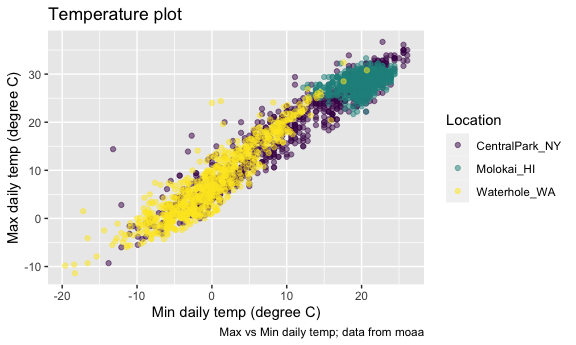
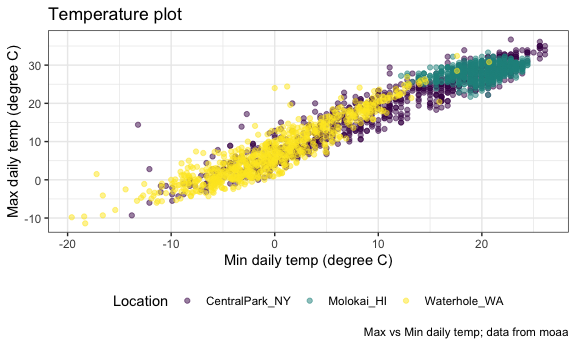
final version for oct 03

diff --git a/viz_and_eda_2.md b/viz_and_eda_2.md
@@ -20,7 +20,7 @@ library(tidyverse)
 
 ``` r
 library(ggridges)
-
+library(patchwork)
 knitr::opts_chunk$set(
   fig.width = 6,
   fig.asp = .6,
@@ -317,9 +317,177 @@ weather_df |>
     color = "Location", 
     caption = "Max vs Min daily temp; data from moaa"
   ) + 
-  viridis::scale_color_viridis(discrete = TRUE)
+  viridis::scale_color_viridis(discrete = TRUE) + 
+  theme_bw() +
+  theme(legend.position = "bottom")
 ```
 
     ## Warning: Removed 17 rows containing missing values (`geom_point()`).
 
 <img src="viz_and_eda_2_files/figure-gfm/unnamed-chunk-18-1.png" width="90%" />
+
+## data argument
+
+``` r
+weather_df |>
+  ggplot(aes(x = date, y = tmax, color = name)) +
+  geom_point() +
+  geom_smooth()
+```
+
+    ## `geom_smooth()` using method = 'loess' and formula = 'y ~ x'
+
+    ## Warning: Removed 17 rows containing non-finite values (`stat_smooth()`).
+
+    ## Warning: Removed 17 rows containing missing values (`geom_point()`).
+
+<img src="viz_and_eda_2_files/figure-gfm/unnamed-chunk-19-1.png" width="90%" />
+
+``` r
+nyc_weather_df = 
+  weather_df |>
+  filter(name =="CentralPark_NY")
+
+hawaii_weather_df = 
+  weather_df |>
+  filter(name == "Molokai_HI")
+
+ggplot(nyc_weather_df, aes(x = date, y = tmax, color = name))+
+  geom_point()+
+  geom_line(data = hawaii_weather_df)
+```
+
+<img src="viz_and_eda_2_files/figure-gfm/unnamed-chunk-19-2.png" width="90%" />
+
+## patchwork
+
+``` r
+weather_df |>
+  ggplot(aes(x = date, y = tmax, color = name)) +
+  geom_point() + 
+  facet_grid(. ~ name)
+```
+
+    ## Warning: Removed 17 rows containing missing values (`geom_point()`).
+
+<img src="viz_and_eda_2_files/figure-gfm/unnamed-chunk-20-1.png" width="90%" />
+
+``` r
+ggp_temp_scatter = 
+  weather_df |>
+  ggplot(aes(x= tmin, y = tmax, color = name)) +
+  geom_point(alpha = .5) + 
+  theme(legend.position = "none")
+
+ggp_prcp_density = 
+  weather_df |>
+  filter(prcp > 0) |>
+  ggplot(aes(x = prcp, fill = name)) +
+  geom_density(alpha = .5) + 
+  theme(legend.position = "none")
+
+ggp_tmax_date = 
+  weather_df |>
+  ggplot(aes(x = date, y = tmax, color = name)) +
+  geom_point() + 
+  geom_smooth(se = FALSE) + 
+  theme(legend.position = "bottom")
+  
+(ggp_temp_scatter + ggp_prcp_density) / ggp_tmax_date
+```
+
+    ## Warning: Removed 17 rows containing missing values (`geom_point()`).
+
+    ## `geom_smooth()` using method = 'loess' and formula = 'y ~ x'
+
+    ## Warning: Removed 17 rows containing non-finite values (`stat_smooth()`).
+    ## Removed 17 rows containing missing values (`geom_point()`).
+
+<img src="viz_and_eda_2_files/figure-gfm/unnamed-chunk-21-1.png" width="90%" />
+
+## data manipulation
+
+``` r
+weather_df |>
+  mutate(
+    name = fct_relevel(name, c("Molokai_HI", "CentralPark_NY", "Waterhole_WA"))
+  ) |>
+  ggplot(aes(x = name, y = tmax)) + 
+  geom_boxplot()
+```
+
+    ## Warning: Removed 17 rows containing non-finite values (`stat_boxplot()`).
+
+<img src="viz_and_eda_2_files/figure-gfm/unnamed-chunk-22-1.png" width="90%" />
+
+``` r
+weather_df |>
+  mutate(
+    name = fct_reorder(name, tmax)
+  )|>
+  ggplot(aes(x = name, y = tmax, fill = name)) +
+  geom_violin()
+```
+
+    ## Warning: There was 1 warning in `mutate()`.
+    ## ℹ In argument: `name = fct_reorder(name, tmax)`.
+    ## Caused by warning:
+    ## ! `fct_reorder()` removing 17 missing values.
+    ## ℹ Use `.na_rm = TRUE` to silence this message.
+    ## ℹ Use `.na_rm = FALSE` to preserve NAs.
+
+    ## Warning: Removed 17 rows containing non-finite values (`stat_ydensity()`).
+
+<img src="viz_and_eda_2_files/figure-gfm/unnamed-chunk-22-2.png" width="90%" />
+
+## complicate FAS plot
+
+``` r
+litters_df = 
+  read_csv("data/FAS_litters.csv") |>
+  janitor::clean_names() |>
+  separate(group, into = c("dose", "day_of_tx"), sep = 3)
+```
+
+    ## Rows: 49 Columns: 8
+    ## ── Column specification ────────────────────────────────────────────────────────
+    ## Delimiter: ","
+    ## chr (2): Group, Litter Number
+    ## dbl (6): GD0 weight, GD18 weight, GD of Birth, Pups born alive, Pups dead @ ...
+    ## 
+    ## ℹ Use `spec()` to retrieve the full column specification for this data.
+    ## ℹ Specify the column types or set `show_col_types = FALSE` to quiet this message.
+
+``` r
+pups_df = 
+  read_csv("data/FAS_pups.csv") |>
+  janitor::clean_names() 
+```
+
+    ## Rows: 313 Columns: 6
+    ## ── Column specification ────────────────────────────────────────────────────────
+    ## Delimiter: ","
+    ## chr (1): Litter Number
+    ## dbl (5): Sex, PD ears, PD eyes, PD pivot, PD walk
+    ## 
+    ## ℹ Use `spec()` to retrieve the full column specification for this data.
+    ## ℹ Specify the column types or set `show_col_types = FALSE` to quiet this message.
+
+``` r
+fas_df = left_join(pups_df, litters_df, by = "litter_number")
+
+fas_df |>
+  select(sex, dose, day_of_tx, starts_with("pd"))|>
+  pivot_longer(
+    pd_ears:pd_walk, 
+    names_to = "outcome", 
+    values_to = "pn_day"
+  ) |>
+  drop_na() |>
+  mutate(outcome = fct_reorder(outcome, pn_day))|>
+  ggplot(aes(x = dose, y = pn_day)) +
+  geom_violin() +
+  facet_grid(day_of_tx ~ outcome)
+```
+
+<img src="viz_and_eda_2_files/figure-gfm/unnamed-chunk-23-1.png" width="90%" />
